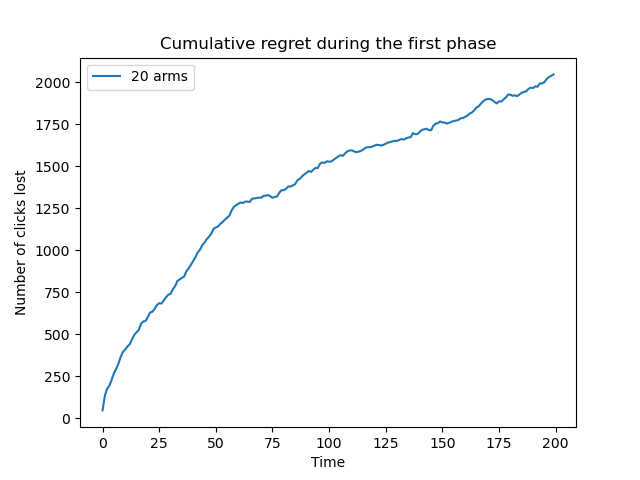
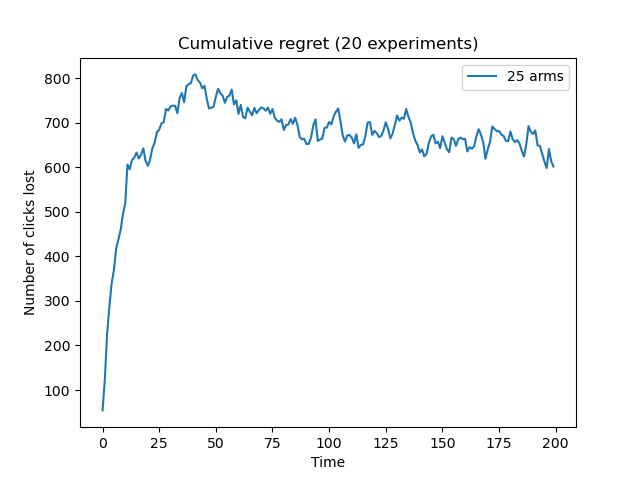
Optimizer testing script + tiny upgrades

diff --git a/Restart/budget_optimizer.py b/Restart/budget_optimizer.py
@@ -12,6 +12,10 @@ from SlidingWindowsGPTS_Learner import *
 from good_knapsack import *
 from optimization import dynamic_opt
 
+#seed = 15
+#random.seed(seed)
+#np.random.seed(seed)
+
 
 def t_to_phase(subcampaign, time_horizon, t_):
     for p in range(3):
@@ -112,23 +116,35 @@ def budget_optimizer(budget, budgets, sigma, time_horizon, n_tuning=1000, n_expe
             # sbagliato, ma sbagliato anche mettere split troppo vicine a 0!!! In ogni caso avrò sottostima
 
             # Initializing the budget allocation randomly
-            """
+            '''
             budget_sub1 = random.choice(list_budgets)
             budget_sub2 = random.choice(list_budgets[np.argwhere(list_budgets <= budget - budget_sub1)])
             budget_sub3 = random.choice(list_budgets[np.argwhere(list_budgets <= budget - budget_sub1 - budget_sub2)])
             budget_allocation = [budget_sub1, budget_sub2[0], budget_sub3[0]]
             # In order to don't give any preference over any subcampaign
             np.random.shuffle(budget_allocation)
-            """
-            i = np.random.randint(round((n_arms-1)/4)-1,round((n_arms-1)/4)+1)
-            j = np.random.randint(round((n_arms-1)/4)-1,round((n_arms-1)/4)+1)
-            #print(i,j,n_arms)
-            # i e j da 0 a n/2
-            # bracci pari se si vuole somma intera
-            budget_allocation = [list_budgets[int(n_arms/2)-i],list_budgets[int(n_arms/2)-j-1],list_budgets[(i+j)]]
-            np.random.shuffle(budget_allocation)
+            '''
+            if not n_arms%2:
+                i = np.random.randint(round((n_arms-1)/4)-1,round((n_arms-1)/4)+1)
+                j = np.random.randint(round((n_arms-1)/4)-1,round((n_arms-1)/4)+1)
+                #print(i,j,n_arms)
+                # i e j da 0 a n/2
+                # bracci pari se si vuole somma intera
+                budget_allocation = [list_budgets[int(n_arms/2)-i],list_budgets[int(n_arms/2)-j-1],list_budgets[(i+j)]]
+                np.random.shuffle(budget_allocation)
 
-            print(budget_allocation)
+            else:
+                # Somma a 1
+                i = np.random.randint(round((n_arms-1)/4)-1,round((n_arms-1)/4)+1)
+                j = np.random.randint(round((n_arms-1)/4)-1,round((n_arms-1)/4)+1)
+                #print(i,j,n_arms)
+                # i e j da 0 a n/2
+                # bracci pari se si vuole somma intera
+                budget_allocation = [list_budgets[int(n_arms/2)-i],list_budgets[int(n_arms/2)-j-1],list_budgets[(i+j)]]
+                np.random.shuffle(budget_allocation)
+
+
+            print('budget iniziale: ', budget_allocation)
 
 
             if sliding_window:
@@ -142,15 +158,18 @@ def budget_optimizer(budget, budgets, sigma, time_horizon, n_tuning=1000, n_expe
                     for subcampaign in [1, 2, 3]:
                         phase_sub = t_to_phase(subcampaign, time_horizon, t)
                         real_rewards[subcampaign - 1] = n_for_b[subcampaign][phase_sub](list_budgets)
-                    optimal_budget_allocation = dynamic_opt(budget_list=list_budgets, budget_index=budget_index,
+                    if (t!=1):
+                        optimal_budget_allocation = dynamic_opt(budget_list=list_budgets, budget_index=budget_index,
                                                             rewards_per_subcampaign=real_rewards)
                     optimal_click = sum([n_for_b[i + 1][phase_sub](optimal_budget_allocation[i]) for i in range(3)])
                     last_phase += 1
 
+
                 # Starting exploration of our environments
                 for subcampaign in [1, 2, 3]:
                     pulled_arm = gpts_learner[subcampaign - 1].pull_arm(budget_allocation[subcampaign - 1])
-                    reward = envs[subcampaign - 1].round(pulled_arm)
+                    reward = max(envs[subcampaign - 1].round(pulled_arm),0)
+                    #reward = envs[subcampaign - 1].round(pulled_arm)
                     collected_rewards_per_subcampaign[subcampaign - 1] = reward
                     gpts_learner[subcampaign - 1].update(pulled_arm, reward)
                     gpts_learner[subcampaign - 1].means[0] = 0          # Already know that to budget=0 I get 0 clicks
@@ -158,8 +177,10 @@ def budget_optimizer(budget, budgets, sigma, time_horizon, n_tuning=1000, n_expe
 
                 collected_rewards = sum(collected_rewards_per_subcampaign)
                 regrets_per_experiment[e].append(optimal_click - collected_rewards)
-                budget_allocation = dynamic_opt(budget_list=list_budgets, budget_index=budget_index,
+                if (t!=1):
+                    budget_allocation = dynamic_opt(budget_list=list_budgets, budget_index=budget_index,
                                                 rewards_per_subcampaign=rewards_per_subcampaign)
+                    #print('napposacco attivato: ', budget_allocation)
 
             for subcampaign in [1, 2, 3]:
                 rewards_per_subcampaign_per_experiment[subcampaign - 1][e] = gpts_learner[subcampaign - 1].means
@@ -195,6 +216,7 @@ def budget_optimizer(budget, budgets, sigma, time_horizon, n_tuning=1000, n_expe
                     plt.fill(np.concatenate([x_real, x_real[::-1]]),
                              np.concatenate([y_pred - 1.96 * sigma, (y_pred + 1.96 * sigma)[::-1]]),
                              alpha=.5, fc='b', ec='None', label='95% Confidence Interval')
+                    plt.plot(optimal_budget_allocation[i], n_for_b[i + 1](optimal_budget_allocation[i]),'y*',markersize=12)
 
                 plt.xlabel('Budget')
                 plt.ylabel('Number of clicks')
@@ -217,12 +239,12 @@ def budget_optimizer(budget, budgets, sigma, time_horizon, n_tuning=1000, n_expe
         fig = plt.figure()
         plt.xlabel('Time')
         plt.ylabel('Number of clicks lost')
-        plt.title("Cumulative regret during the first phase")
+        plt.title("Cumulative regret (20 experiments)")
 
         for iteration in range(len(budgets)):
             plt.plot(np.cumsum(np.mean(regrets[iteration], axis=0)),label='%s arms' % len(budgets[iteration]))
         if sliding_window:
-            plt.vlines([i * time_horizon for i in abrupt_phases], 0,5000, colors='r', linestyles='solid', label = 'Phase change')
+            plt.vlines([i * time_horizon for i in abrupt_phases], 0,8000, colors='r', linestyles='solid', label = 'Phase change')
         plt.legend()
 
         if sliding_window:

diff --git a/Restart/budget_optimizer_ts.py b/Restart/budget_optimizer_ts.py
@@ -19,12 +19,14 @@ def t_to_phase(subcampaign, time_horizon, t_):
     return 0
 
 
-def budget_optimizer_ts(budget, list_budgets, sigma, time_horizon, n_tuning=1000, n_experiments=1,
+def budget_optimizer_ts(budget, budgets, sigma, time_horizon, n_tuning=1000, n_experiments=1,
                         sliding_window=False, window_size=0, abrupt_phases=None, graphics=False, verbose=False):
-    n_arms = len(list_budgets)
-    rewards_per_subcampaign_per_experiment = [[[] for _ in range(n_experiments)] for _ in range(3)]
-    regrets_per_experiment = [[] for _ in range(n_experiments)]
-    budget_index = np.max(np.argwhere(list_budgets <= budget))
+    for iteration in range(len(budgets)):
+        list_budgets = budgets[iteration]
+        n_arms = len(list_budgets)
+        rewards_per_subcampaign_per_experiment = [[[] for _ in range(n_experiments)] for _ in range(3)]
+        regrets_per_experiment = [[] for _ in range(n_experiments)]
+        budget_index = np.max(np.argwhere(list_budgets <= budget))
 
     # Computing the optimal budget allocation in the case of stationary environment
     if not sliding_window:
@@ -58,13 +60,22 @@ def budget_optimizer_ts(budget, list_budgets, sigma, time_horizon, n_tuning=1000
 
         # Initializing the budget allocation evenly
         # budget_allocation = np.max(list_budgets[np.argwhere(list_budgets <= budget / 3)]) * np.ones(3)
-
+        '''
         # Initializing the budget allocation randomly
         budget_sub1 = random.choice(list_budgets)
         budget_sub2 = random.choice(list_budgets[np.argwhere(list_budgets <= budget - budget_sub1)])
         budget_sub3 = random.choice(list_budgets[np.argwhere(list_budgets <= budget - budget_sub1 - budget_sub2)])
         budget_allocation = [budget_sub1, budget_sub2[0], budget_sub3[0]]
         # In order to don't give any preference over any subcampaign
+        np.random.shuffle(budget_allocation)
+        '''
+
+        i = np.random.randint(round((n_arms-1)/4)-1,round((n_arms-1)/4)+1)
+        j = np.random.randint(round((n_arms-1)/4)-1,round((n_arms-1)/4)+1)
+        #print(i,j,n_arms)
+        # i e j da 0 a n/2
+        # bracci pari se si vuole somma intera
+        budget_allocation = [list_budgets[int(n_arms/2)-i],list_budgets[int(n_arms/2)-j-1],list_budgets[(i+j)]]
         np.random.shuffle(budget_allocation)
 
         if sliding_window:

diff --git a/Restart/prove_P2.py b/Restart/prove_P2.py
@@ -1,20 +1,29 @@
 import matplotlib.pyplot as plt
 from data import *
 from budget_optimizer import budget_optimizer
+from budget_optimizer_ts import budget_optimizer_ts
+
+
+
+#ad = budget_optimizer_ts(budget = 1, budgets = budgets, sigma = sigma, time_horizon= time_horizon, sliding_window = sliding_window, window_size = window_size,
+                #abrupt_phases = abrupt_phases, n_experiments = n_experiments, graphics = graphics, verbose = verbose)
 
 
 ad, regrets = budget_optimizer(budget = 1, budgets = budgets, sigma = sigma, time_horizon= time_horizon, sliding_window = sliding_window, window_size = window_size,
                 abrupt_phases = abrupt_phases, n_experiments = n_experiments, graphics = graphics, verbose = verbose, tune = False)
 
-ad2, regrets2 = budget_optimizer(budget = 1, budgets = budgets, sigma = sigma, time_horizon= time_horizon, sliding_window = sliding_window, window_size = time_horizon,
-                abrupt_phases = abrupt_phases, n_experiments = n_experiments, graphics = graphics, verbose = verbose, tune = False)
-
-for iteration in range(len(budgets)):
-    plt.plot(np.cumsum(np.mean(regrets[iteration], axis=0)), 'b', label='%s window' % window_size)
-    plt.plot(np.cumsum(np.mean(regrets2[iteration], axis=0)),'k', label='%s window' % time_horizon)
 if sliding_window:
-    plt.vlines([i * time_horizon for i in abrupt_phases], 0,5000, colors='r', linestyles='solid', label = 'Phase change')
-plt.legend()
+    ad2, regrets2 = budget_optimizer(budget = 1, budgets = budgets, sigma = sigma, time_horizon= time_horizon, sliding_window = sliding_window, window_size = time_horizon,
+                    abrupt_phases = abrupt_phases, n_experiments = n_experiments, graphics = graphics, verbose = verbose, tune = False)
+
+
+    for iteration in range(len(budgets)):
+        plt.plot(np.cumsum(np.mean(regrets[iteration], axis=0)), 'b', label='%s window GPTS' % window_size)
+        plt.plot(np.cumsum(np.mean(regrets2[iteration], axis=0)),'k', label='Standard GPTS')
+    if sliding_window:
+        plt.vlines([i * time_horizon for i in abrupt_phases], 0,8000, colors='r', linestyles='solid', label = 'Phase change')
+    plt.legend()
+
 
 plt.show()
 

diff --git a/Restart/data.py b/Restart/data.py
@@ -3,26 +3,32 @@ import numpy as np
 #from budget_optimizer_ts import *
 import time
 
-verbose = False
-graphics = False
-debug = False  # if True it shows useless plots
-sliding_window = True
-n_experiments = 10
+
+
+verbose = True
+graphics = True
+debug = True  # if True it shows useless plots
+sliding_window = False
+n_experiments = 20
 adv_budget = 1.0
-n_arms_adv = 30
+n_arms_adv = 25
 #n_arms_adv = [9,17,25,33]
-time_horizon = 200  # time used for optimizing the budget allocation
+time_horizon = 300  # time used for optimizing the budget allocation
 window_size = int(time_horizon/10)
 
 min_budget = 0.0
 max_budget = 1.0
 budgets =[]
 
+if sliding_window:
+    graphics = False
+
 if isinstance(n_arms_adv, list):
     for i in range(len(n_arms_adv)):
         budgets.append(np.linspace(min_budget, max_budget, n_arms_adv[i]))
 else:
     budgets = [np.linspace(min_budget, max_budget, n_arms_adv)]
+
 
 sigma = 10
 n_for_b = None
@@ -50,12 +56,16 @@ if sliding_window:
 
     # Proportion of the time horizon in which each phase takes place
     n_proportion_phases = {
-        1: [0, 0.3, 0.6],
-        2: [0, 0.3, 0.5],
+        #1: [0, 0.3, 0.6],
+        #2: [0, 0.3, 0.5],
+        #3: [0, 0.2, 0.6]
+        1: [0, 0.2, 0.6],
+        2: [0, 0.2, 0.6],
         3: [0, 0.2, 0.6]
     }
     # Proportion of time horizon where you have an actually different environment
-    abrupt_phases = [0, 0.2, 0.3, 0.5, 0.6]
+    #abrupt_phases = [0, 0.2, 0.3, 0.5, 0.6]
+    abrupt_phases = [0, 0.2, 0.6]
 else:
     # Functions that assign the number of clicks to a given budget
     # They are monotone increasing in [0,1]

diff --git a/Restart/ts_learner_gauss.py b/Restart/ts_learner_gauss.py
@@ -34,6 +34,9 @@ class TS_Learner_Normal(Learner):
 
         # Updates the gaussian parameters
         self.gaussian_parameters[pulled_arm, 1] = 1 / (1/self.gaussian_parameters[pulled_arm, 1] + 1/self.sigma**2)
-        self.gaussian_parameters[pulled_arm, 0] = self.gaussian_parameters[pulled_arm, 1] * \
-                                                  ((self.gaussian_parameters[pulled_arm, 0] /
-                                                    self.gaussian_parameters[pulled_arm, 1]) + reward/self.sigma**2)
+        try:
+            self.gaussian_parameters[pulled_arm, 0] = self.gaussian_parameters[pulled_arm, 1] * \
+                                          ((self.gaussian_parameters[pulled_arm, 0] /
+                                            self.gaussian_parameters[pulled_arm, 1]) + reward/self.sigma**2)
+        except ValueError:
+            pass
